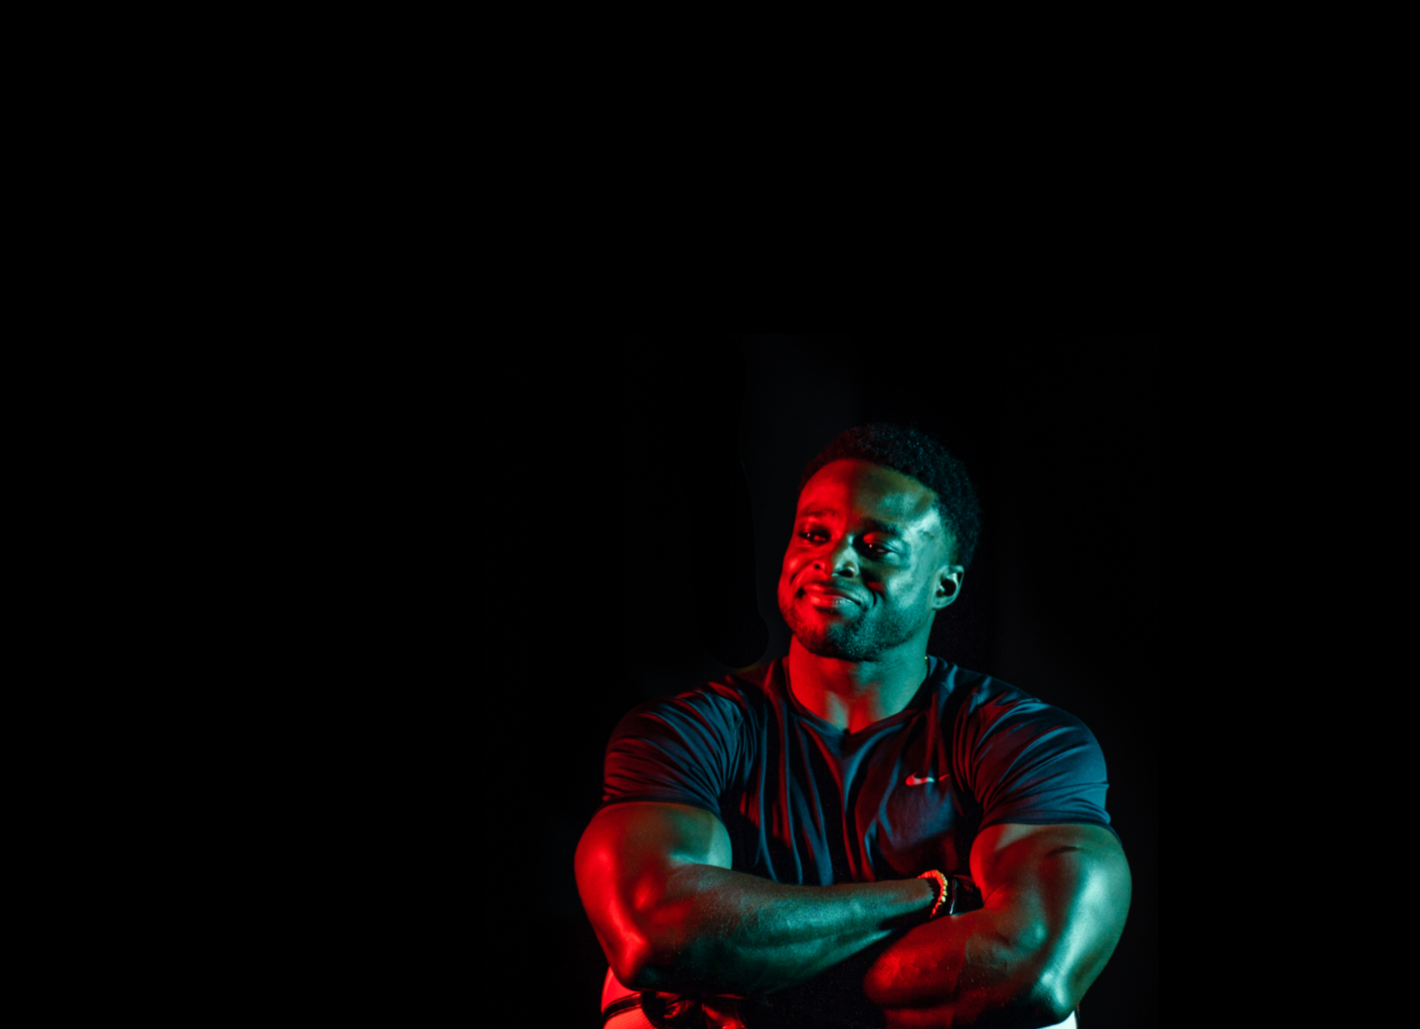
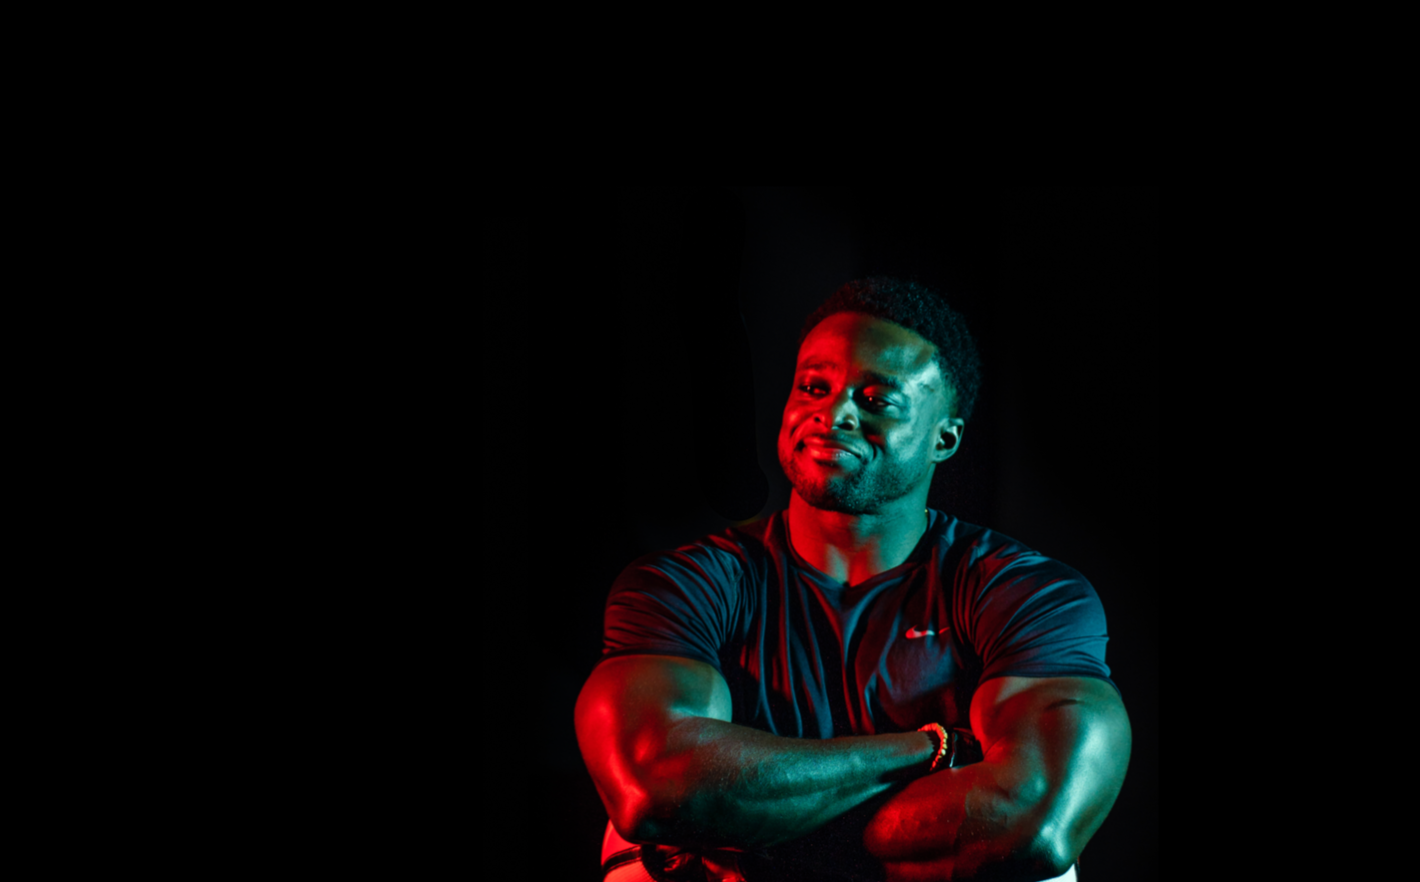
12:53

Changed region(s): [[0.4028, 0.3061, 0.8056, 1.0]]

diff --git a/about.html b/about.html
@@ -298,10 +298,11 @@
   <style>
 	 
 	 img {
-    max-width: 100%;
-    max-height: 100vh;
-    height: auto;
-    object-fit: cover;
+   object-fit: cover;
+   max-width: 100%;
+   max-height: 100%;
+   width: auto;
+   height: auto;
 }
 	  .mobile-nav-toggle-label { display: inline-block !important; }</style>
 
@@ -319,7 +320,7 @@
                       <div class="color-overlay"></div>
                       <figure id="thumbnail" class="loading content-fill" style="overflow: hidden;">
                         <img style="font-size: 0px; left: 0px; to
-                        p: -305.931px; width: 1280px;  height: 854.451px; position: relative;" alt="pic1.jpg" class="" src="IMG2.JPG" data-image-resolution="2500w">
+                        p: -305.931px; width: 128000px;  height: 854.451px; position: relative;" alt="IMG_6723.png" class="" src="IMG_6723.png" data-image-resolution="2500w">
                       </figure>
                       
                       <div class="desc-wrapper" data-collection-id="55e39e16e4b06d270a1dcbe9"><p> </p></div>
